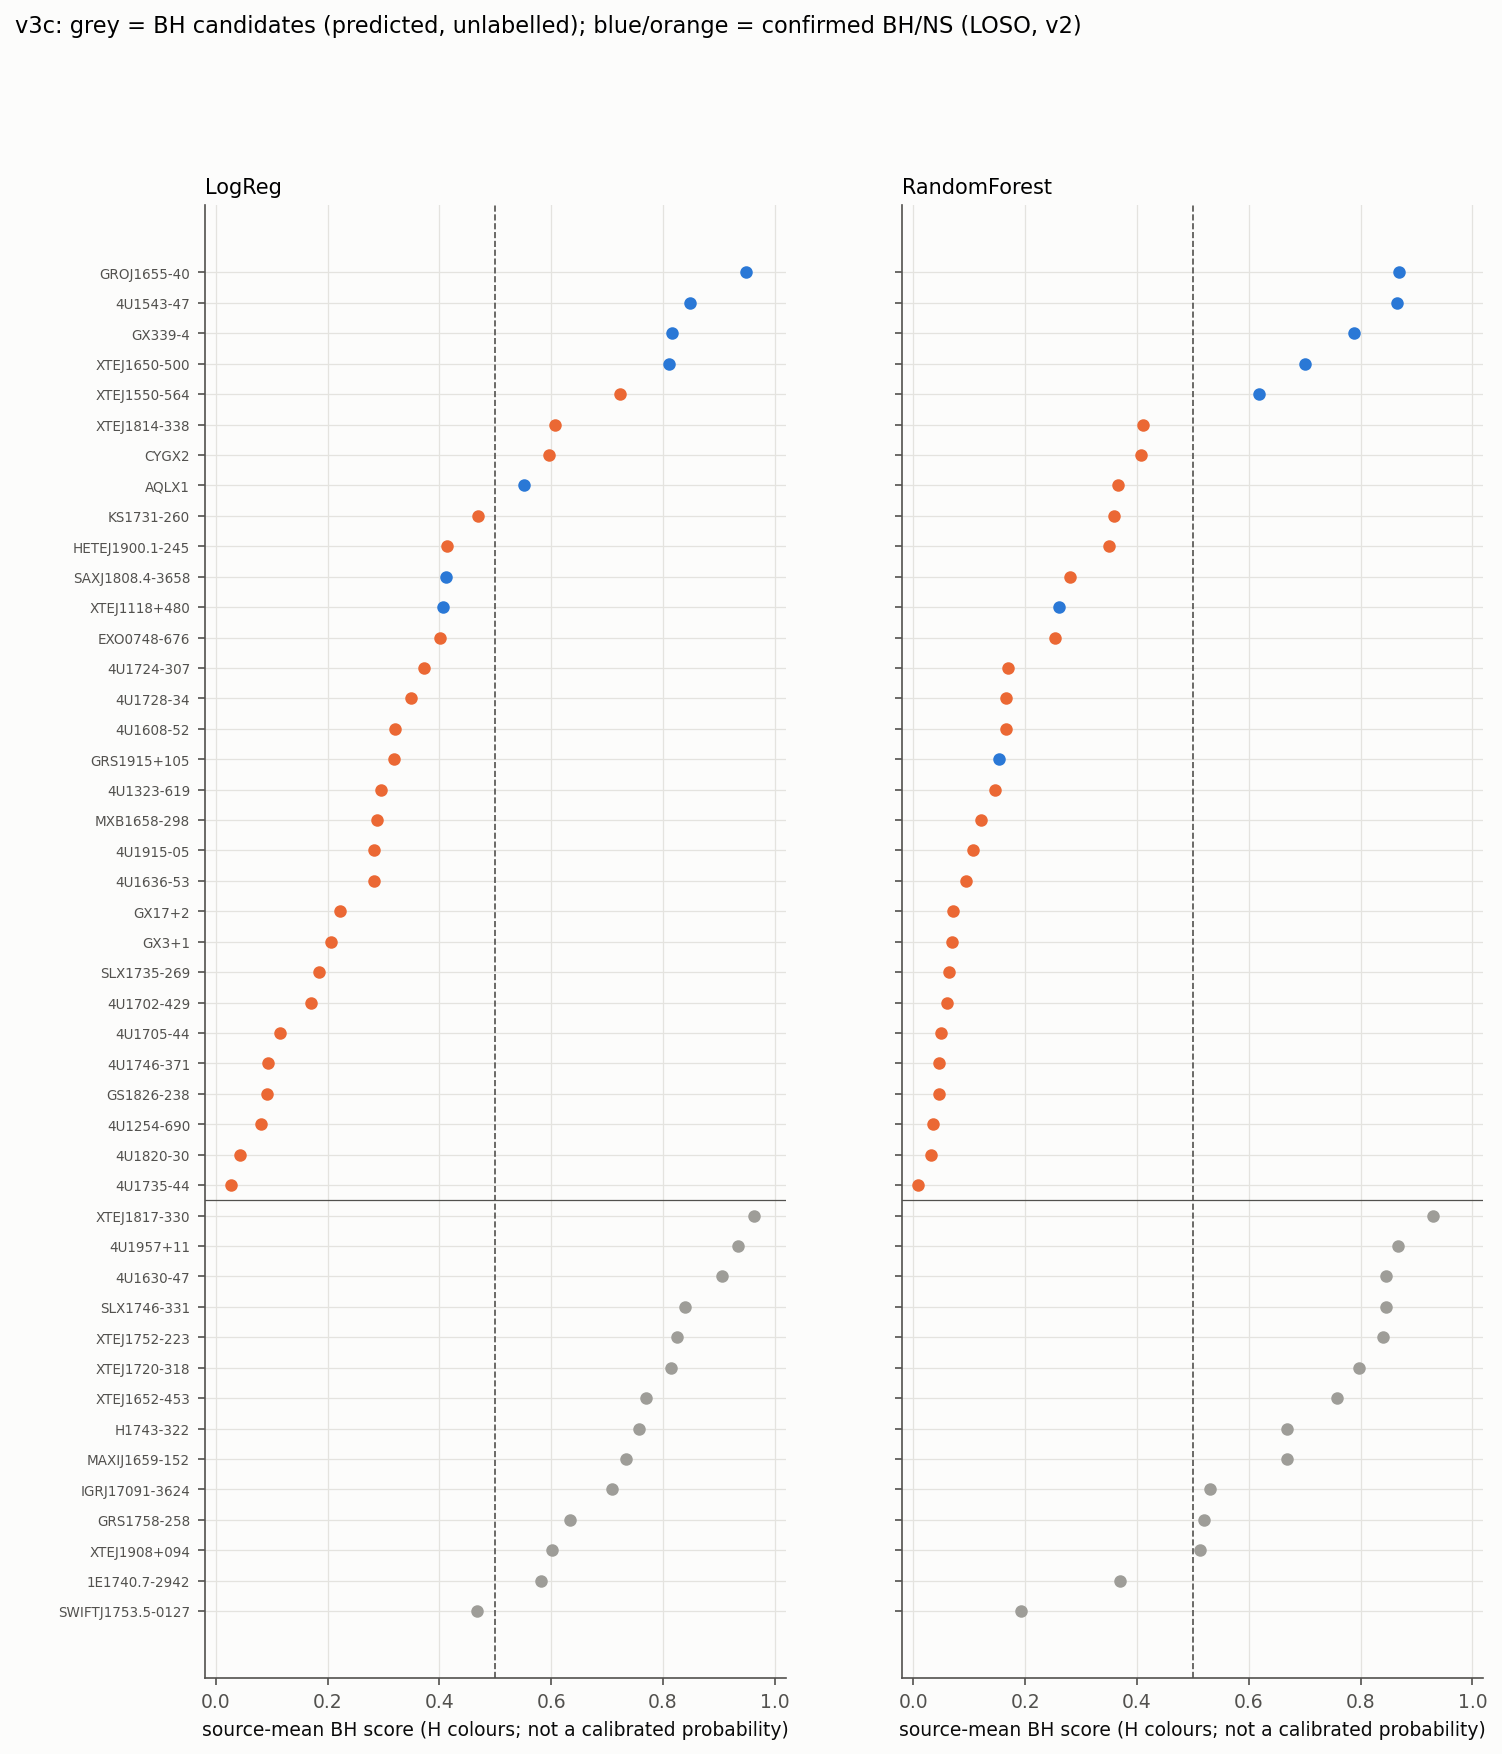
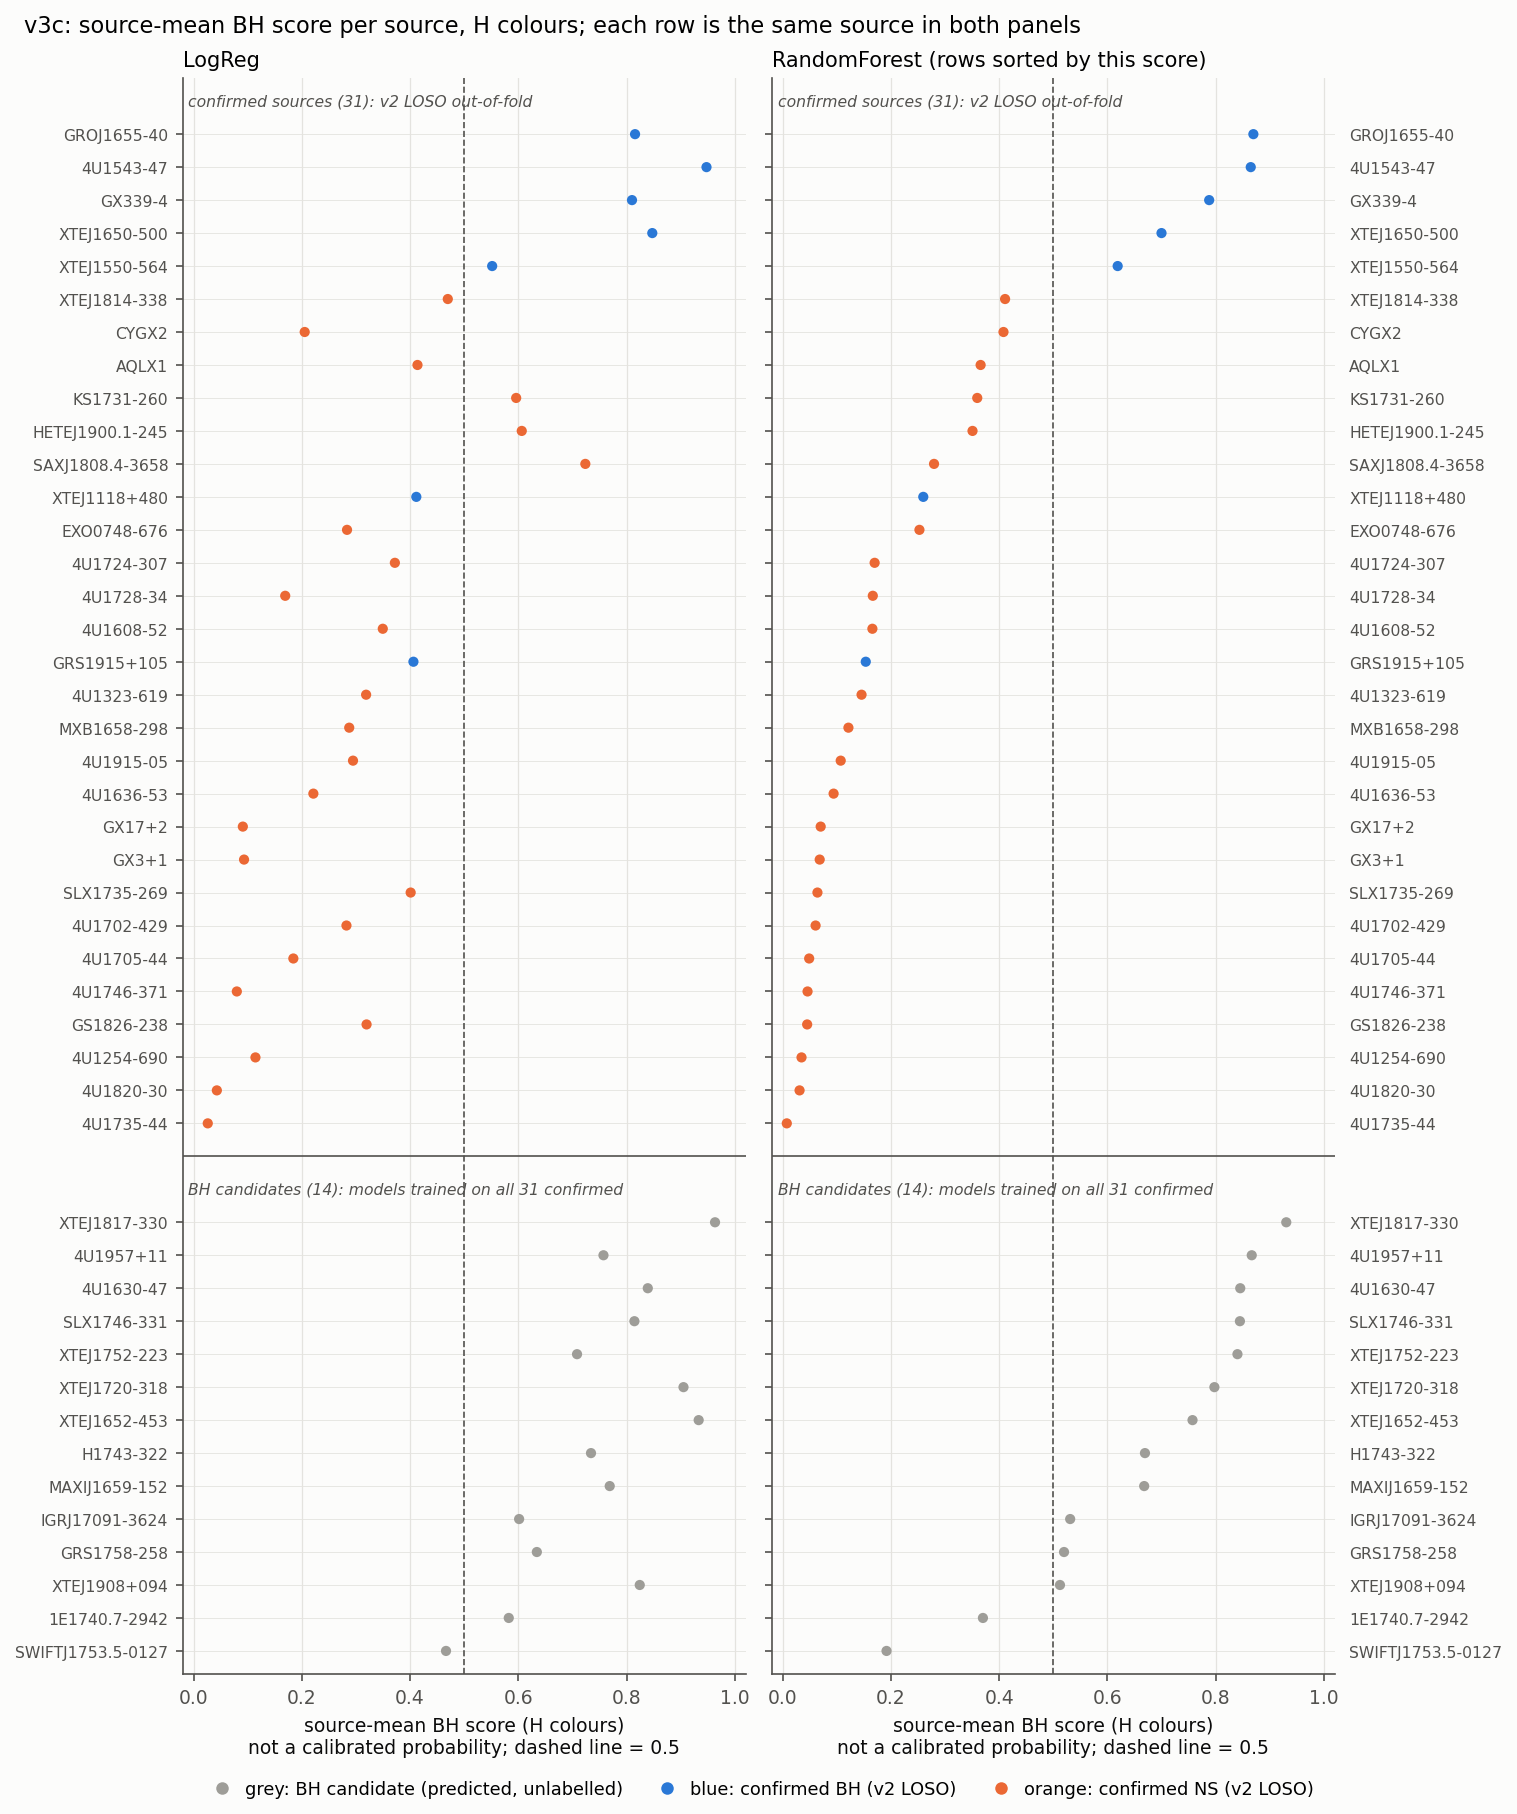
Fix source-label mismatch in v3c candidate-score figure
scripts/14_v3c_candidates.py drew two sharey=True panels but sorted the
sources separately for each model and called set_yticklabels per panel.
The shared y labels therefore followed the RandomForest order, so in the
LogReg panel points and colours sat next to the wrong source names
(both the confirmed and the candidate block).

- New scripts/v3c_plot.py: one source order and source_id -> y map for
  both panels (confirmed on top, candidates below, each block by the
  RandomForest H_colours source-mean BH score descending, ties by
  source_id); each model's score is looked up by source_id; y axis
  inverted once. Confirmed scores come straight from the original v2
  LOSO CSV (no '+cand'); colours from true_label, candidates grey.
  Legend, block headers, 0.5 line, separator, names on both edges,
  no clipped rows.
- 14_v3c_candidates.py: the full run calls the same function;
  --plot-only redraws from the saved CSVs without loading features,
  training, bootstrapping or downloading.
- Redrawn figures/v3/v3c_candidate_scores.png and its report_en copy;
  report_en caption corrected (candidates are the bottom block).
  report_en/main.pdf not rebuilt (local MiKTeX lacks CJKutf8).
- decision_log / README notes.

Predictions, metrics and bootstrap results are unchanged (SHA-256 of
every file under results/ identical before/after).

diff --git a/scripts/v3c_plot.py b/scripts/v3c_plot.py
@@ -1,0 +1,78 @@
+"""Figure figures/v3/v3c_candidate_scores.png (v3c, preregistration_v3.md §3), drawn only from saved predictions.
+Used by the full run of 14_v3c_candidates.py and by its `--plot-only` redraw (no training data, training or bootstrap).
+
+Both panels share one row per source: confirmed sources on top, BH candidates below, each block sorted by the
+RandomForest H_colours source-mean BH score (descending, ties by source_id). Each model's own score is looked up by
+source_id and drawn at that shared row, so a row is the same source in both panels."""
+import numpy as np, pandas as pd
+from matplotlib.lines import Line2D
+from matplotlib.transforms import blended_transform_factory
+from common import ROOT
+from plotstyle import plt, INK2, CLASS_COLOR
+
+REP, PLOT_MODELS, SORT_MODEL = 'H_colours', ('LogReg', 'RandomForest'), 'RandomForest'
+CAND_COLOR = '#9e9d98'
+CAND_CSV = ROOT/'results/v3/v3c_candidate_predictions.csv'      # analysis 1: trained on all 31 confirmed sources
+CONF_CSV = ROOT/'results/v2/oof_predictions_loso.csv'           # original v2 LOSO (not the '+cand' sensitivity run)
+OUT_PNG = ROOT/'figures/v3/v3c_candidate_scores.png'
+
+
+def load_inputs(cand_csv=CAND_CSV, conf_csv=CONF_CSV):
+    return pd.read_csv(cand_csv, dtype={'obs_id': str}), pd.read_csv(conf_csv, dtype={'obs_id': str})
+
+
+def source_means(cand_pred, conf_oof):
+    """Arithmetic mean BH_score over all observations of each source, per model (H_colours, LogReg/RandomForest)."""
+    def sel(d):
+        return d[(d.representation == REP) & d.model.isin(PLOT_MODELS)]
+    c, f = sel(cand_pred), sel(conf_oof)
+    cand = c.groupby(['source_id', 'model']).BH_score.mean().unstack()[list(PLOT_MODELS)]
+    conf = f.groupby(['source_id', 'model']).BH_score.mean().unstack()[list(PLOT_MODELS)]
+    labels = f.groupby('source_id').true_label.agg(lambda t: t.iloc[0] if t.nunique() == 1 else None)
+    assert cand.notna().all().all() and conf.notna().all().all(), 'a source is missing a model'
+    assert labels.isin(['BH', 'NS']).all(), 'confirmed source without a single BH/NS label'
+    assert not set(cand.index) & set(conf.index), 'candidate and confirmed sources overlap'
+    return cand, conf, labels
+
+
+def row_layout(cand, conf):
+    """Top-to-bottom rows: header, confirmed block, separator, header, candidate block. Returns (rows, y, sep, headers)."""
+    def order(m):
+        return m.reset_index().sort_values([SORT_MODEL, 'source_id'], ascending=[False, True]).source_id.tolist()
+    oc, ok = order(conf), order(cand)
+    y = {s: 1 + i for i, s in enumerate(oc)}                       # row 0 = confirmed header
+    sep = len(oc) + 1
+    y.update({s: sep + 2 + i for i, s in enumerate(ok)})            # row sep + 1 = candidate header
+    return oc + ok, y, sep, {0: f'confirmed sources ({len(oc)}): v2 LOSO out-of-fold',
+                             sep + 1: f'BH candidates ({len(ok)}): models trained on all {len(oc)} confirmed'}
+
+
+def plot_candidate_scores(cand_pred, conf_oof, out=OUT_PNG):
+    """Draw and save the figure; returns the open Figure (caller closes it)."""
+    cand, conf, labels = source_means(cand_pred, conf_oof)
+    rows, y, sep, headers = row_layout(cand, conf)
+    colour = {s: CLASS_COLOR[labels[s]] if s in conf.index else CAND_COLOR for s in rows}
+    ymax = max(y.values())
+    fig, axes = plt.subplots(1, 2, figsize=(10, 0.2 * ymax + 2.6), sharey=True, layout='constrained')
+    axes[0].set_yticks([y[s] for s in rows], labels=rows)                  # shared y axis: ticks and labels set once
+    axes[0].set_ylim(ymax + .7, -.7)                                       # shared y axis: inverted once (row 0 on top)
+    axes[1].tick_params(axis='y', labelleft=False, labelright=True)        # names on both outer edges
+    for a in axes: a.tick_params(axis='y', labelsize=7.5)
+    for a, m in zip(axes, PLOT_MODELS):
+        score = pd.concat([conf[m], cand[m]])                              # this model's source means, by source_id
+        a.scatter([score[s] for s in rows], [y[s] for s in rows], c=[colour[s] for s in rows], s=24, lw=0, zorder=3)
+        a.axvline(.5, color=INK2, ls='--', lw=.8); a.axhline(sep, color=INK2, lw=.8)
+        tr = blended_transform_factory(a.transAxes, a.transData)
+        for yy, txt in headers.items():
+            a.text(.01, yy, txt, transform=tr, va='center', ha='left', fontsize=7.5, color=INK2, style='italic')
+        a.set_xlim(-.02, 1.02); a.grid(axis='y', lw=.4)
+        a.set_xlabel('source-mean BH score (H colours)\nnot a calibrated probability; dashed line = 0.5')
+        a.set_title(m + (' (rows sorted by this score)' if m == SORT_MODEL else ''), loc='left')
+    handles = [Line2D([], [], ls='', marker='o', ms=6, mec='none', color=col, label=t) for col, t in
+               [(CAND_COLOR, 'grey: BH candidate (predicted, unlabelled)'),
+                (CLASS_COLOR['BH'], 'blue: confirmed BH (v2 LOSO)'), (CLASS_COLOR['NS'], 'orange: confirmed NS (v2 LOSO)')]]
+    fig.legend(handles=handles, loc='outside lower center', ncol=3, fontsize=8.5, handletextpad=.3, columnspacing=1.5)
+    fig.suptitle('v3c: source-mean BH score per source, H colours; each row is the same source in both panels',
+                 x=.01, ha='left')
+    fig.savefig(out)
+    return fig

diff --git a/scripts/14_v3c_candidates.py b/scripts/14_v3c_candidates.py
@@ -2,16 +2,23 @@
 `XRB_VERSION=v3c python scripts/03_select_observations.py` and `... 04_fetch_process.py`.
 Analysis 1: train on all 31 confirmed v2 sources, PREDICT candidates (no accuracy is computed).
 Analysis 2: LOSO over the 31 confirmed sources only; candidates (labelled BH) are always added to training.
-            Paired with the v2 OOF predictions (same test observations/folds)."""
-import sys
+            Paired with the v2 OOF predictions (same test observations/folds).
+--plot-only: only redraw figures/v3/v3c_candidate_scores.png from the saved CSVs (v3c_plot.py; no features, training,
+             bootstrap or downloads)."""
+import sys, argparse
 from pathlib import Path
 sys.path.insert(0, str(Path(__file__).resolve().parent))
 from common import ROOT, progress
 from v3lib import *
-from plotstyle import plt, INK2, CLASS_COLOR
+from plotstyle import plt
+from v3c_plot import plot_candidate_scores, load_inputs, OUT_PNG
 
 R3, FG3 = ROOT/'results/v3', ROOT/'figures/v3'
 for p in (R3, FG3): p.mkdir(parents=True, exist_ok=True)
+ap = argparse.ArgumentParser(description=__doc__, formatter_class=argparse.RawDescriptionHelpFormatter)
+ap.add_argument('--plot-only', action='store_true', help='redraw the candidate-score figure from the saved CSVs only')
+if ap.parse_args().plot_only:
+    plt.close(plot_candidate_scores(*load_inputs())); print(f'redrawn {OUT_PNG.relative_to(ROOT)}'); sys.exit()
 pd.set_option('display.width', 220)
 zc2 = np.load(ROOT/'data/v2/processed/features.npz'); zc3 = np.load(ROOT/'data/v3c/processed/features.npz')
 assert np.allclose(zc2['edges'], zc3['edges']), 'candidate grid differs from v2 grid'
@@ -55,18 +62,6 @@ bs = bootstrap(both, [(r + '+cand', r) for r in conf]); bs.to_csv(R3/'v3c_bootst
 print('\n' + bs[bs.comparison.str.contains(' - ')].round(3).to_string(index=False))
 
 # ---- figure: candidate source-mean scores next to confirmed LOSO source means (H colours, both models) ----
-fig, axes = plt.subplots(1, 2, figsize=(11, 0.25 * (len(set(gc)) + 31) + 1.5), sharey=True)
-for a, m in zip(axes, MODELS):
-    c = pred[(pred.representation == 'H_colours') & (pred.model == m)].groupby('source_id').BH_score.mean()
-    f = ps[(ps.representation == 'H_colours') & (ps.model == m)].set_index('source_id').mean_BH_score
-    lab = ps[(ps.representation == 'H_colours') & (ps.model == m)].set_index('source_id').true_label
-    order = list(c.sort_values().index) + list(f.sort_values().index)
-    for i, s in enumerate(order):
-        v, col = (c[s], '#9e9d98') if s in c.index else (f[s], CLASS_COLOR[lab[s]])
-        a.plot(v, i, 'o', color=col, ms=5)
-    a.axvline(.5, color=INK2, ls='--', lw=.8); a.axhline(len(c) - .5, color=INK2, lw=.6)
-    a.set_yticks(range(len(order))); a.set_yticklabels(order, fontsize=6.5); a.set_xlim(-.02, 1.02)
-    a.set_xlabel('source-mean BH score (H colours; not a calibrated probability)'); a.set_title(m, loc='left')
-fig.suptitle('v3c: grey = BH candidates (predicted, unlabelled); blue/orange = confirmed BH/NS (LOSO, v2)', x=.01, ha='left')
-fig.savefig(FG3/'v3c_candidate_scores.png'); plt.close(fig)
+# One shared source order for both panels (v3c_plot.py); confirmed scores are the original v2 LOSO, not '+cand'.
+plt.close(plot_candidate_scores(pred, v2))
 progress('v3c_candidates', 'results/v3/v3c_* written')

diff --git a/report_en/sections/06_phase1.tex b/report_en/sections/06_phase1.tex
@@ -574,9 +574,10 @@ HI & RF & 0.836 $\to$ 0.958 & 0.946 $\to$ 0.982 & $+0.122$ [$-0.021$, $+0.315$] 
 \begin{figure}[htbp]
 \centering
 \includegraphics[width=0.75\textwidth]{figures/v3/v3c_candidate_scores.png}
-\caption[v3c candidate scores]{v3c with H: source-mean BH score of the 14 candidates (grey, predicted, top block) next to
-the LOSO source means of the 31 confirmed sources (blue BH, orange NS, bottom block), LR left, RF right; dashed = 0.5. Most
-candidates sit with the confirmed BHs; Swift J1753.5$-$0127 sits with the NSs. Repo: \file{figures/v3/v3c\_candidate\_scores.png};
+\caption[v3c candidate scores]{v3c with H: LOSO source means of the 31 confirmed sources (blue BH, orange NS, top block)
+and source-mean BH scores of the 14 candidates (grey, predicted, bottom block), LR left, RF right; each row is the same
+source in both panels, sorted within each block by the RF score; dashed = 0.5. Most candidates sit with the confirmed BHs;
+Swift J1753.5$-$0127 sits with the NSs. Repo: \file{figures/v3/v3c\_candidate\_scores.png};
 script \file{scripts/14\_v3c\_candidates.py}.}
 \label{fig:p1v3cscores}
 \end{figure}

diff --git a/reports/decision_log.md b/reports/decision_log.md
@@ -211,3 +211,9 @@
 | 2026-10-07 22:40 +08:00 | 依使用者要求，把 v1–v14 整理成給指導教授的英文 LaTeX 技術報告（`report_en/`）。只讀取既有報告、程式與已提交的 `.npz`／`.csv`，**不重跑任何分析、不下載原始資料**。動筆前先提交大綱、圖表對照與方法清單（`report_en/PLAN_for_review.md`）等使用者確認。已發現的報告文字與 CSV／程式不一致列在該檔 §5，正文中以 `% CHECK:` 標出，以 CSV／程式為準。本機沒有 LaTeX，依使用者指示在 `~/texlive/2026` 安裝 TeX Live（scheme-small，使用者目錄，不需管理員權限） | 是（整理已完成的結果；不改任何數字） |
 | 2026-10-08 | report_en 進度：使用者確認大綱（相近分析放同一 phase、各 phase 自帶 array 表、G1–G5 全做）。已完成並提交：Ch1–5（緒論、特徵數學、資料→矩陣、ML 方法、評估）、Phase 1–4（Ch6–9；v9c MAXI 分層併入 Phase 4 的 MAXI 主題）。待做：Phase 5（v9–v10）、Phase 6（v11–v13）、Ch12 綜合、Ch13–15、摘要／執行摘要／符號表、附錄 A–E、references.bib、最後全文編譯與 overfull 清理。表格逐源資料由 scratchpad 腳本從已提交的 CSV 讀出（唯讀）；v8a 硬態類逐源平均分數是本報告從 v2／v5 OOF 與 v7a 能態檔重算（唯讀），已在表註說明。新增 CHECK：LMC X-1 合格數（prereg 419 vs CSV 450）、v7b2 事後檔名「3 outliers」實為 2 筆、de Beurs 重現中 MAXI J1820+070 的歸類 | 是（整理結果；不改數字） |
 | 2026-10-08 | report_en 完成：Ch1–15、摘要、執行摘要、符號表、附錄 A–E、references.bib 全部寫完；`latexmk -pdf` 編譯 191 頁，0 個未定義的參照與引用，剩餘 overfull 都 ≤ 3.6 pt。所有圖表都有 \cref；repo 圖 60 張＋新圖 G1–G5（`report_en/figures/generated/make_figures.py`）＋ 7 張 TikZ 方法圖。% CHECK 共 12 處（見交付摘要）；作者／指導教授姓名與 19 個書目欄位標為 TODO 待確認。本報告只讀取已提交檔案，未重跑分析；唯讀重算兩項描述量（Phase 4 硬態類逐源平均分數、v9b 事後 Mann–Whitney 檢查），已在正文註明 | 是（整理結果；不改數字） |
+
+## 圖表修正（2026-10-08，不是新的分析版本）
+
+| 時間 | 決定 / 變更 | 是否在看過結果之後 |
+|---|---|---|
+| 2026-10-08 | 修正 `figures/v3/v3c_candidate_scores.png` 的天體名稱錯位：原程式在 `sharey=True` 的兩個面板中各自依該模型分數排序、各自 `set_yticklabels`，共用 y 軸的標籤被 RandomForest 的順序覆寫，左側 LogReg 面板的點與顏色對到別的天體名稱（確認與候選兩區都受影響）。改為兩面板共用同一順序與 `source_id → y` 映射（上方 31 個確認天體、下方 14 個候選，各區依 RandomForest 的 H_colours 天體平均 BH 分數遞減，同分依 `source_id`），y 軸只反轉一次。繪圖移到 `scripts/v3c_plot.py`，`14_v3c_candidates.py` 的完整流程與新增的 `--plot-only`（只讀既有 CSV）呼叫同一函式；確認天體分數直接取自原始 v2 LOSO（`results/v2/oof_predictions_loso.csv`），不含 `+cand`。**預測數值與評估結果未改變**（`results/` 下全部檔案 SHA-256 不變）。`report_en` 中同一張圖與圖說（原誤寫候選在上方）一併更新；`report_en/main.pdf` 尚未重新編譯（本機 MiKTeX 缺 `CJKutf8`，需在 TeX Live 環境執行 `latexmk -pdf`） | 與結果無關（繪圖錯誤；只改圖） |

diff --git a/README.md b/README.md
@@ -24,7 +24,7 @@ XSPEC 交叉檢查需要 WSL Ubuntu-22.04 與 conda 環境 `henv`（安裝：`ws
 v3a 巢狀比較（完整能譜在兩個顏色之外有無增量）＋來源層級 AUC、v3b 3–25 keV、v3c BH candidates——**全部已完成**（分支 `v3-analysis`）。
 結論：兩個硬度比已包含可測到的 BH/NS 資訊；3–5 keV 與完整形狀都沒有增量；加入 candidates 只改善門檻失準的設定。
 候選名單查證：[reports/v3c_candidate_verification.md](reports/v3c_candidate_verification.md)。
-執行：`.\run_v3.ps1 -a`、`-b`、`-c`（或 `./run_v3.sh a b c`）；v3a 重新訓練加 `--retrain`。共用模組 `scripts/v3lib.py`。
+執行：`.\run_v3.ps1 -a`、`-b`、`-c`（或 `./run_v3.sh a b c`）；v3a 重新訓練加 `--retrain`。共用模組 `scripts/v3lib.py`。只重畫 v3c 候選分數圖（只讀既有 CSV，不重新訓練）：`python scripts/14_v3c_candidates.py --plot-only`。
 輸出在 `results/v3/`、`figures/v3/`、`data/v3/`；v3c 選樣／處理輸出在 `data/v3c/`、`results/v3c/`、`figures/v3c/`，log 在 `logs/v3/`、`logs/v3c/`。
 v3c 原始 FITS 在 `data/raw/`（不進 git），以 `XRB_VERSION=v3c` 執行 `04_fetch_process.py` 重新下載（`logs/downloads.jsonl` 有 SHA256）。
 
